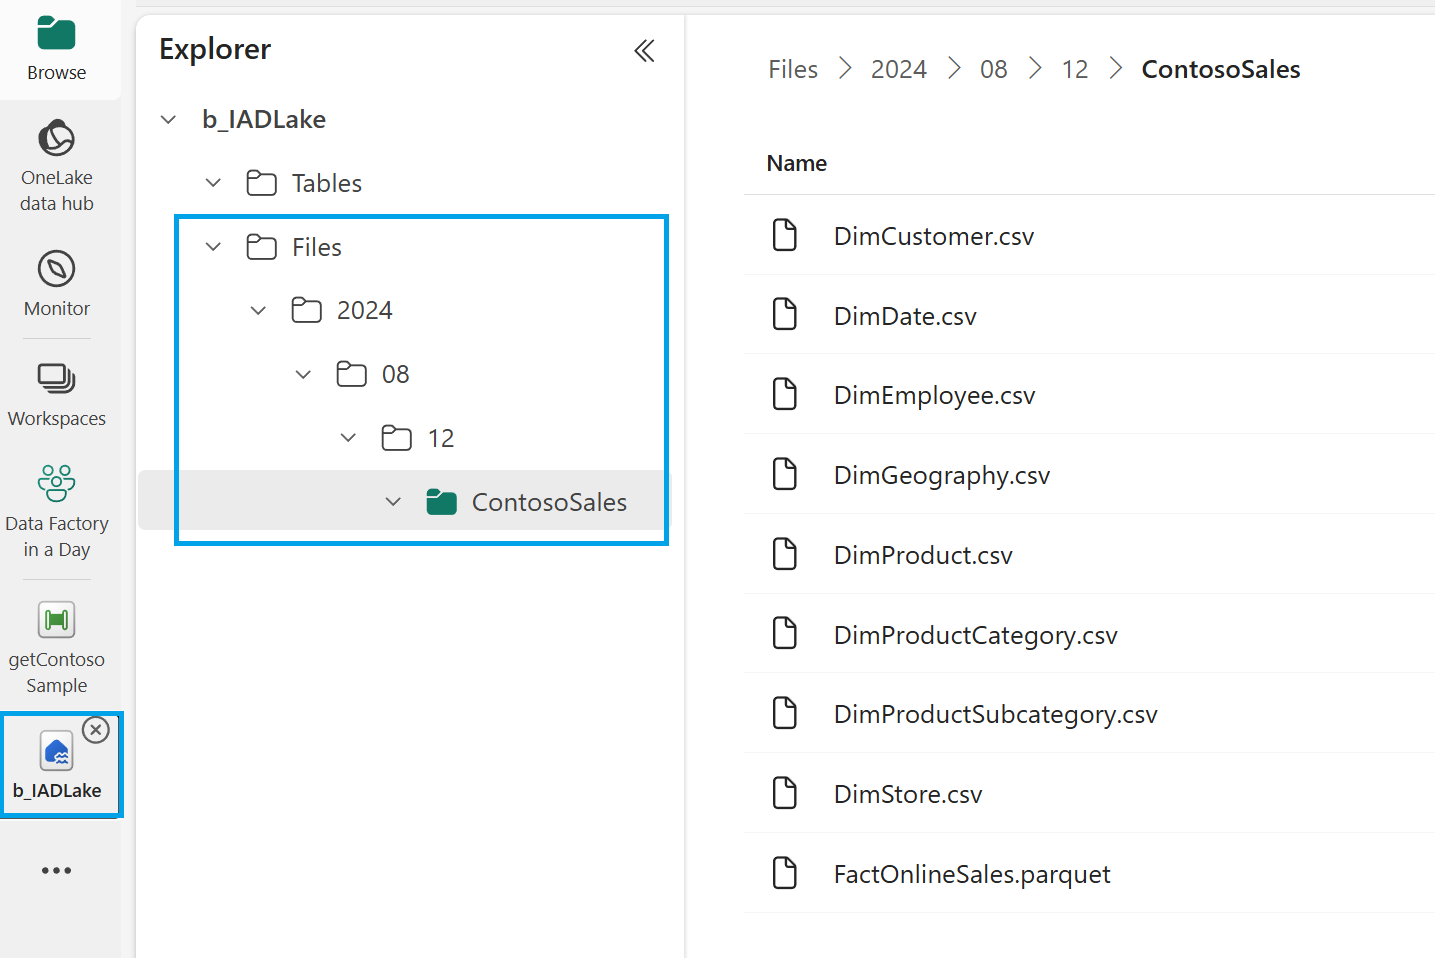
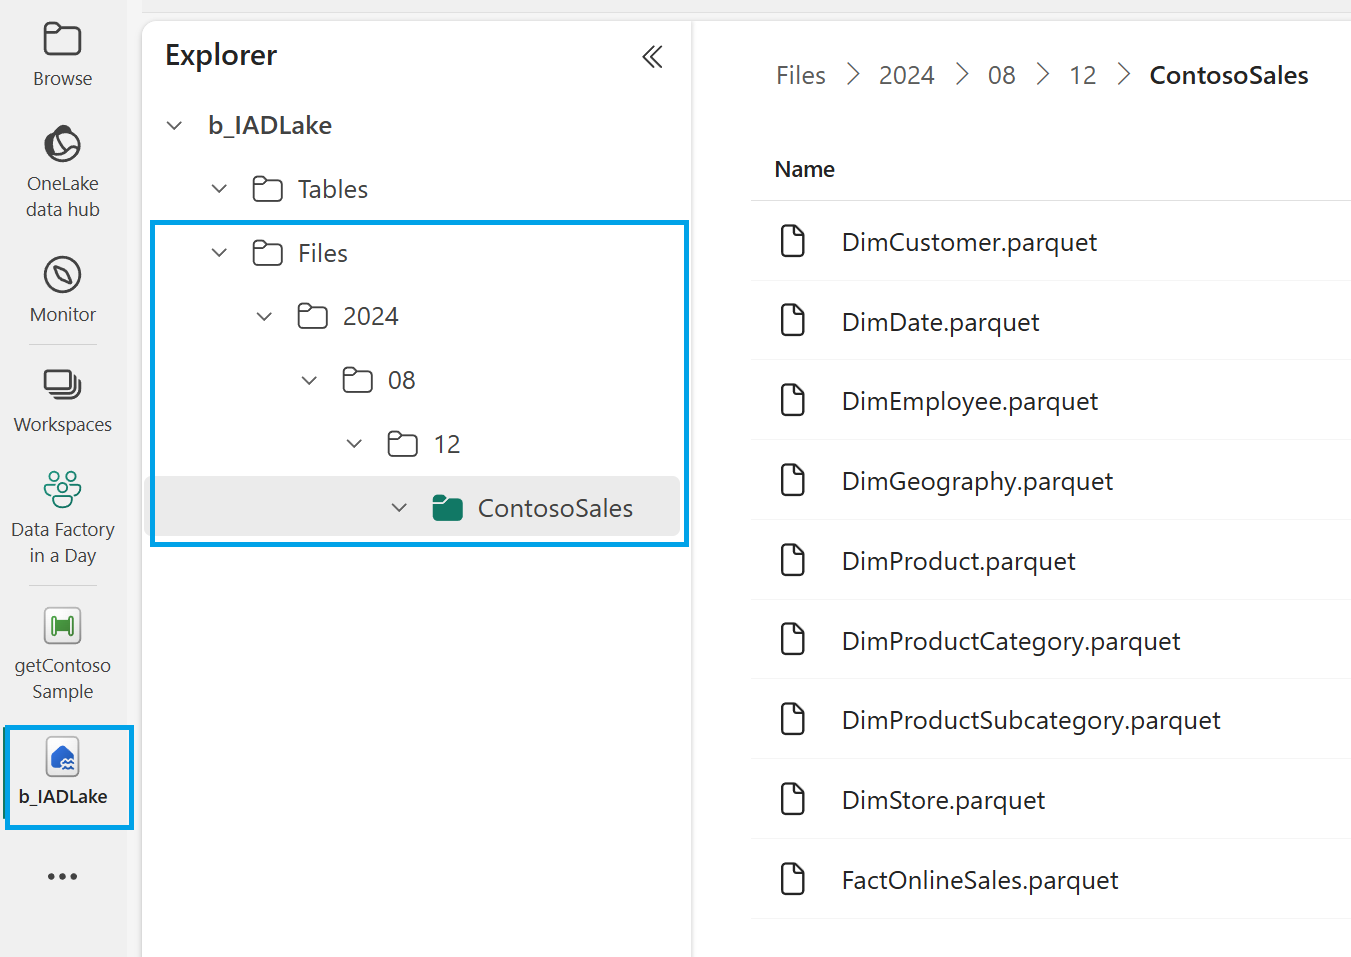
Completed data pipeline lab instructions

diff --git a/Data Factory in a Day/DataPipeline.md b/Data Factory in a Day/DataPipeline.md
@@ -98,3 +98,250 @@ Throughout the lab, you will validate and run the pipeline, ensuring that the da
 1. If we return to our previously created **b_IADLake** lakehouse item (either by selecting it on the left side rail if still open or by returning to the workspace item list to open), we can confirm that the zip file's content has now been added to the Files section. The files should be organized with a nested folder structure based on the year, month, date, and data source title for the pipeline run.
 
     ![Copy output succeeded](./Media/unzip-lakehouse-contents.png)
+
+### Enriching raw data
+
+#### Creating and using variables
+
+1. Select the **New item** option on the **Silver data** from your task flow to add another storage item to your project. Within the **Item type** selection, select **Lakehouse**.
+
+    ![Bronze data new item](./Media/task-flow-new-item-silver-data.png)
+
+1. In the New lakehouse window, set the lakehouse name to "s_IADLake" (shorthand for silver in a day) and then select **Create**. Consistentcy in naming conventions like this help in easily identifying and managing different storage layers in your project.
+
+    ![Bronze data lakehouse](./Media/new-lakehouse-siad.png)
+
+1. Within the lakehouse item from the **Home** tab select **Get data** from **New data pipeline**.
+
+    ![New data pipleine from lakehouse](./Media/new-data-pipeline-from-lakehouse.png)
+
+1. In the New pipeline window, set the data pipeline name to **createContosoTables** and then select Create. This step initializes your pipeline and gives it a meaningful name that reflects its purpose.
+
+    If prompted with the Copy data assistant window, select X in the top right corner to be taken into an empty authoring canvas. This ensures that you start with a clean slate for your pipeline configuration.
+
+    ![Create Contoso tables pipeline](./Media/create-contoso-tables.png)
+
+1. Select the **Activities** tab and then the **Set variable** activity to add this to your canvas. The Set variable activity allows you to define and assign values to variables that can be used throughout your pipeline.
+
+    ![Create Contoso tables](./Media/add-set-variable-activity.png)
+
+1. With the **Set variable** activity selected, navigate to the **Settings** tab. Next to the **Name** property, select **New**. This step allows you to create a new variable that will be used in your pipeline.
+
+    ![Set new variable name](./Media/set-variable-new-name.png)
+
+1. Within the Add new variable window, set the **Name** value to **fileDirectory** and ensure the Type remains as a string before selecting Confirm. Naming your variable helps in identifying its purpose and ensures that it is correctly referenced in subsequent steps.
+
+    ![Create a new variable](./Media/new-variable-name.png)
+
+1. Select the **Value** text input box. This will display the **Add dynamic content [Alt+Shift+D]** property. Select this text to open the pipeline expression builder.
+
+    In the Pipeline expression builder window copy and paste the code block below into the expression input box. Press **Ok** when complete.
+
+    ```text
+    @concat(
+        formatDateTime(
+            convertFromUtc(
+                utcnow(), 'Central Standard Time'
+            ),
+            'yyyy/MM/dd'
+        ),
+        '/ContosoSales'
+    )
+    ```
+
+    ![Create Contoso tables](./Media/new-variable-expression-folder.png)
+
+1. Navigate to the General tab with the Set variable activity selected. Update the **Name** field with the text "**Set file directory**". This step helps in identifying and managing the activity within your pipeline in subsequent steps, making it easier to understand its purpose and functionality.
+
+    ![Set variable name](./Media/set-file-directory-name.png)
+
+1. Select the **Activities** tab and then the **Get metadata** activity to add this to your canvas.
+
+    Within the **Settings** options, select the **Files** option and then the **Directory** file path text input box. This will display the **Add dynamic content [Alt+Shift+D]** property. Select this text to open the pipeline expression builder.
+
+    ![Add get metadata activity](./Media/add-get-metadata-activity.png)
+
+1. In the Pipeline expression builder window, select the **Variables** option. Within the available variable list, select **fileDirectory** and then OK. This step ensures that the file path for the metadata retrieval is dynamically set based on the value of the fileDirectory variable.
+
+    ![File directory variable](./Media/filedirectory-variable.png)
+
+1. With the Get metadata activity still selected, navigate to the **Settings** tab. Add new Field list values by selecting **New** twice. Within each of the drop-downs, configure the values as **Child items** and **Item name**. This ensures that the metadata activity retrieves information about the child items and their names within the specified directory.
+
+    ![Get metadata field list](./Media/get-metadata-field-list.png)
+
+1. Next, navigate to the General tab with the Get metadata activity selected. Update the **Name** field with the text "**Get child items in folder**". This step helps in identifying and managing the activity within your pipeline, making it easier to understand its purpose and functionality.
+
+    ![Get child items in folder name](./Media/get-child-items-in-folder.png)
+
+1. Create a conditional path by dragging and dropping the **On completion** option between the **Set file directory** activity and the **Get child items in folder** activity. This step establishes a logical flow in your pipeline, ensuring that the metadata retrieval occurs only after the file directory has been set. 
+
+    Once complete, select **Validate** on the **Home** tab to ensure there are no errors within the pipeline. After validation, select **Run** to start the pipeline.
+
+    A new window will prompt you as unsaved changes have been detected. Select **Save and run** to continue. 
+
+    ![Conditional path](./Media/conditional-path-var-metadata.png)
+
+1. Deselect any previously selected activities within the authoring canvas and navigate to the **Output** view. This view allows you to monitor the current status of your pipeline both during and after its run. In this example, both the Pipeline status and the Activity status should show a **Succeeded** status. This indicates that everything ran as intended, confirming that your data ingestion process was successful.
+
+    From the **Get child items in folder** activity, select the last column called **Output** to review the contents of the activity. This step allows you to verify that the filenames from your directory have been correctly retrieved and included in the output.
+
+    ![Output window file names](./Media/output-window-filenames.png)
+
+#### ForEach loop and conditional branches
+
+1. Select the **Activities** tab and then the **ForEach** activity to add this to your canvas. This activity allows you to iterate over a collection of items, performing a set of actions for each item in the collection.
+
+    With the **ForEach** activity selected, navigate to the General tab and update the **Name** field with the text **For each file**. Naming your activities helps in identifying their purpose and makes it easier to manage your pipeline.
+
+    Next, create a conditional path by dragging and dropping the **On success** option between the **Get child items in folder activity** and the **For each file activity**. This step establishes a logical flow in your pipeline, ensuring that the ForEach retrieval occurs only after the file directory has been successfully completed.
+
+    ![Output window file names](./Media/foreach-conditional-path-name.png)
+
+1. With the For each file activity still active, navigate to the **Settings** tab. Check the option for **Sequential** order and then select the Items text input box. This will display the **Add dynamic content [Alt+Shift+D]** property. Select this text to open the pipeline expression builder. The sequential order ensures that the items are processed one after another, maintaining the order of execution.
+
+    ![Output item name](./Media/foreach-settings.png)
+
+1. Within the Pipeline expression builder window, select the **Activity outputs** section. Then, choose the **Get child items in folder** output of **childItems**. The full option title is **Get child items in folder childItems**. This step ensures that the ForEach activity iterates over the child items retrieved from the specified directory.
+
+    ![Output item name](./Media/get-child-items-output.png)
+
+1. With all the activities deselected on your canvas, navigate to the project's **Variables** tab at the bottom. Select **New** and add two new variables from the table below. This step allows you to define additional variables that will be used in your pipeline.
+
+    | Name | Type |
+    | :-- | :-- |
+    | fileName | String |
+    | tableName | String |
+
+    ![Add two new variables](./Media/two-new-variables-created.png)
+
+1. Select the variable activities in the For each file activity and update their configurations according to the table below. For the **Value** option, select the text input box, which will display the **Add dynamic content [Alt+Shift+D]** property. Select this text to open the pipeline expression builder.
+
+    **Set variable1**
+
+    | Tab | Setting | Value  |
+    | :-- | :-- | :-- |
+    | General | Name | Set fileName |
+    | Settings | Name | fileName |
+    | Settings | Value | ``@item().name`` |
+
+    **Set variable1**
+
+    | Tab | Setting | Value  |
+    | :-- | :-- | :-- |
+    | General | Name | Set tableName |
+    | Settings | Name | tableName |
+    | Settings | Value | ``@split(variables('fileName'),'.')[0]`` |
+
+    ![Set variable properties](./Media/set-variable-properties.png)
+
+1. Select the **Edit** option on the For each activity to drill into the nested authoring canvas. This step allows you to configure the activities that will be executed for each item in the collection.
+
+    ![Nested authoring edit](./Media/foreach-nested-edit.png)
+
+1. From the **Activities** tab, select the ellipses (**...**) and then the **Switch** activity to add this to the authoring canvas. The Switch activity allows you to define different execution paths based on the value of an expression, providing flexibility in handling different scenarios.
+
+    ![Add switch activity](./Media/more-activities-switch.png)
+
+1. With the **Switch** activity selected, navigate to the **Activities** tab and select the **Expression** text input box. This will display the **Add dynamic content [Alt+Shift+D]** property. Select this text to open the pipeline expression builder.
+
+    Copy and paste the code block below into the expression input box. Press **Ok** when complete.
+
+    ```text
+    @if(
+        contains(variables('fileName'), 'Dim'),
+        'Dim',
+        'Fact'
+    )
+    ```
+
+    ![Switch expression builder](./Media/switch-expression-builder.png)
+
+1. Still within the **Activities** tab, select the **Add case** option to add two cases: one for **Dim** and another for **Fact**. These cases will handle different scenarios based on the contents of the fileName variable, distinguishing between dimension tables and fact tables.
+
+    ![Add switch ase](./Media/switch-add-case.png)
+
+1. Navigate to the **General** tab with the Switch activity selected. Update the **Name** field with the text **Switch by Prefix**.
+
+    ![Switch by prefix name](./Media/switch-name.png)
+
+1. Select the **Add activity** option within the Dim switch condition and add the **Copy data** activity. This step defines the actions to be taken when the fileName variable indicates a dimension table.
+
+    ![Dim edit](./Media/switch-dim-copy.png)
+
+1. With the **Copy data** activity selected within the Dim switch condition, configure the following options in the **Source** tab:
+
+    | Property | Value |
+    | :-- | :-- |
+    | Source | Select the previously configured **b_IADLake** lakehouse. |
+    | Root folder | Files |
+    | File path | File path |
+    | Directory | Select the variable **fileDirectory** within the expression builder's Variables section. |
+    | File name | Select the variable **fileName** within the expression builder's Variables section. |
+    | File format | Parquet |
+
+    ![Update variable selection](./Media/variables-selection.png)
+
+    The final configuration will match the image below.
+
+    ![Copy data configuraiton](./Media/configure-copy-dim.png)
+
+1. With the **Copy data** activity selected within the Dim switch condition, configure the following options in the **Destination** tab:
+    | Property | Value |
+    | :-- | :-- |
+    | Source | Select the previously configured **s_IADLake** lakehouse. |
+    | Destination | Tables |
+    | Table name | Select the variable **tableName** within the expression builder's Variables section. |
+    | Table action | Overwrite |
+
+    ![Destination configuration](./Media/destination-table-name.png)
+
+1. Navigate to the General tab with the Copy data activity selected. Update the **Name** with the text **Copy dimensions**.
+
+    ![Update name of copy data](./Media/name-copy-dimensions.png)
+
+1. Right-click the **Copy dimensions** activity and select the **Copy** option. Using the breadcrumb trail, select the **For each file** to return to the parent canvas. This step allows you to duplicate existing activities.
+
+    ![Copy copy dimensions](./Media/copy-copy-dimensions.png)
+
+1. From the Switch activity, select the **Edit** option to go into the authoring canvas. This step allows you to configure the activities within the nested switch conditions.
+
+    ![Edit fact condition](./Media/edit-fact-condition.png)
+
+1. Within the **Fact** condition, right-click the authoring canvas and select **Paste**. This step adds the previously copied Copy dimensions activity to the Fact condition authoring canvas.
+
+    ![Paste activity on authoring canvas](./Media/paste-authoring-canvas.png)
+
+1. Navigate to the General tab with the Copy data activity selected. Update the **Name** with the text **Copy facts**.
+
+    ![Update copy facts name](./Media/paste-copy-facts.png)
+
+1. Select the **Destinations** tab and update the following **Table action** to the **Append** option. This ensures that the data is appended to the existing table, rather than overwriting it. Then, select the **For each** option from the breadcrumb trail to return to the top level of your pipeline.
+
+    ![Append table action](./Media/append-table-action.png)
+
+1. Set the conditional path activity to **On success** from the **Set tableName** variable activity to the **Switch by Prefix activity**. Then, select the **Main canvas** option from the breadcrumb trail to return to the top level of your pipeline.
+
+    ![Switch conditional path](./Media/foreach-condition-switch.png)
+
+1. From the **Home** tab, select the **Validate** option to first confirm that there are no issues with your pipeline. This validation step helps in identifying any errors to be fixed before running the pipeline.
+
+    Once validated, select the **Save** option and then **Run** to start the ingestion from the data pipeline. If a save window is prompted, confirm by selecting **Save and run**. Running the pipeline initiates the data transfer, allowing you to see the results of your configuration in action within the output window.
+
+    ![Validate save and run the pipeline](./Media/final-pipeline-run.png)
+
+1. The data pipeline is now running multiple activities in a sequential order and writing these to the Silver data layers lakehouse as delta parquet tables. These tables are optimized for analysis, providing several benefits for data processing and querying.
+
+    v-Order optimized tables are crucial for analysis in Microsoft Fabric because they enhance performance and efficiency. By organizing data in a columnar format, v-Order tables allow for faster data retrieval and reduced storage costs. This optimization is particularly beneficial for analytical workloads, where large volumes of data need to be processed and queried quickly. Additionally, delta parquet tables support efficient data updates and versioning, making it easier to manage and analyze evolving datasets.
+
+    By leveraging v-Order optimized tables, you can ensure that your data is stored in a way that maximizes performance and scalability, enabling more effective and timely analysis. This approach helps in making informed decisions based on up-to-date and well-organized data.
+
+    ![Validate save and run the pipeline](./Media/final-pipeline-monitor.png)
+
+# Next steps
+
+In this lab, we explored the process of creating dynamic data pipelines using Microsoft Fabric. Throughout the lab, we configured various activities, including setting variables, retrieving metadata, and using the ForEach and Switch activities to handle different scenarios. We also learned how to validate and run the pipeline, ensuring that the data ingestion process is successful and that the data is correctly organized in the lakehouse.
+
+By moving data across the bronze and silver data lakehouse layers, we demonstrated how to manage and optimize data workflows. The use of delta parquet tables, optimized with v-Order, highlighted the importance of efficient data storage and retrieval for analytical workloads. These optimizations enhance performance, scalability, and overall productivity, enabling more effective data analysis and decision-making.
+
+- Continue to the [Dataflow Gen2](./DataPipeline.md) lab
+- Return to the [Data Factory in a Day](./README.md) homepage
